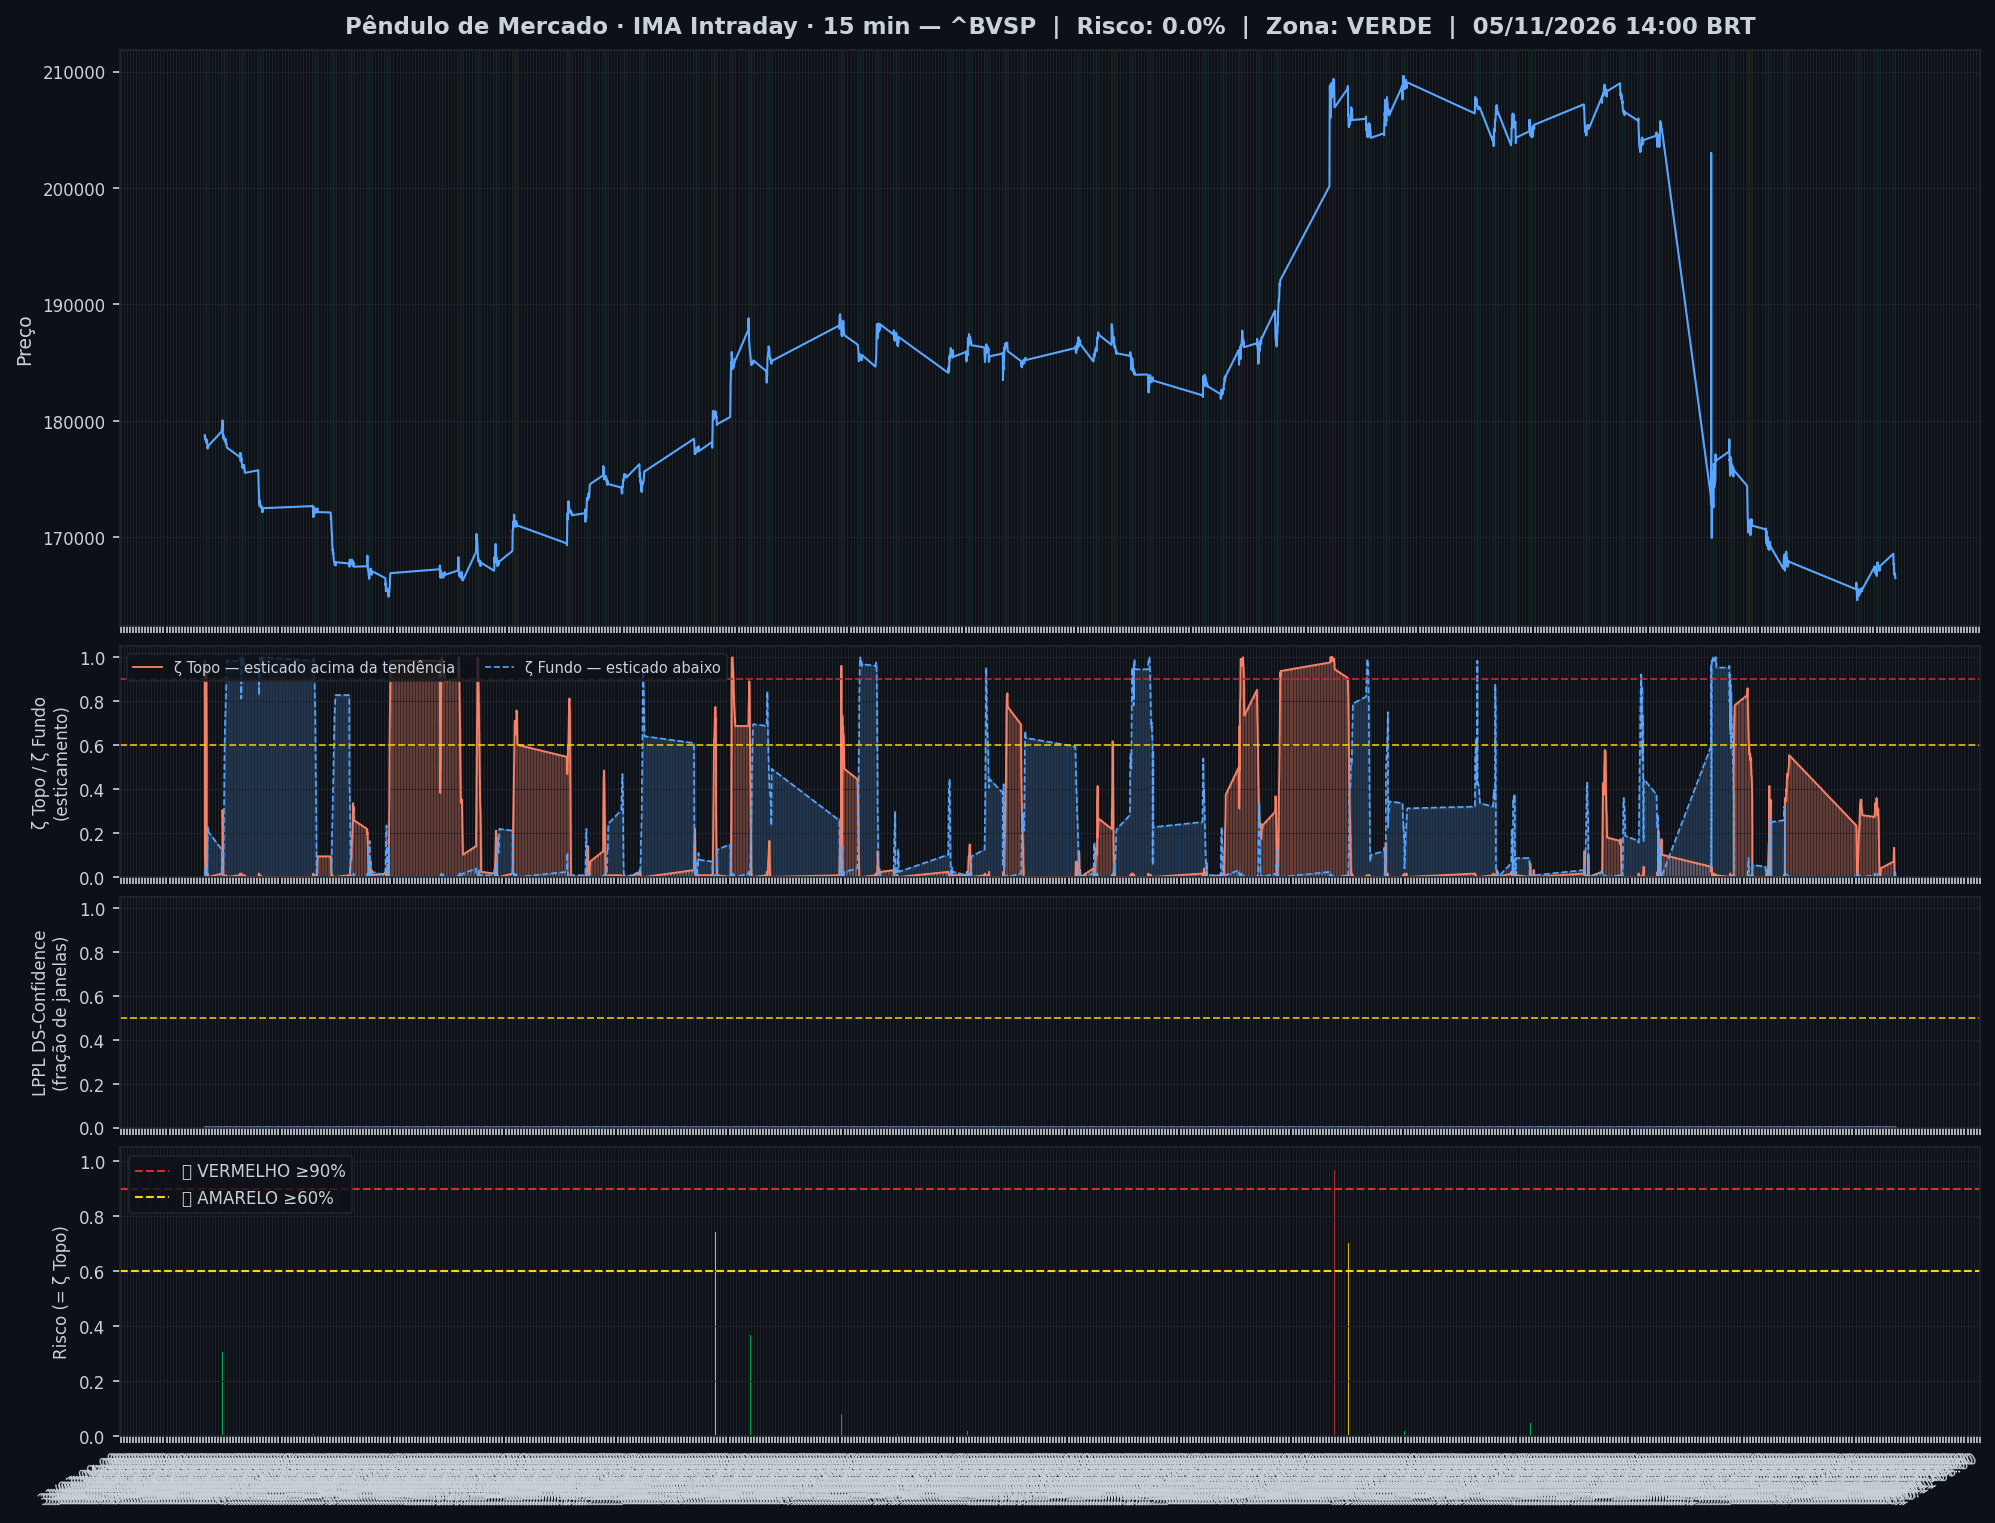
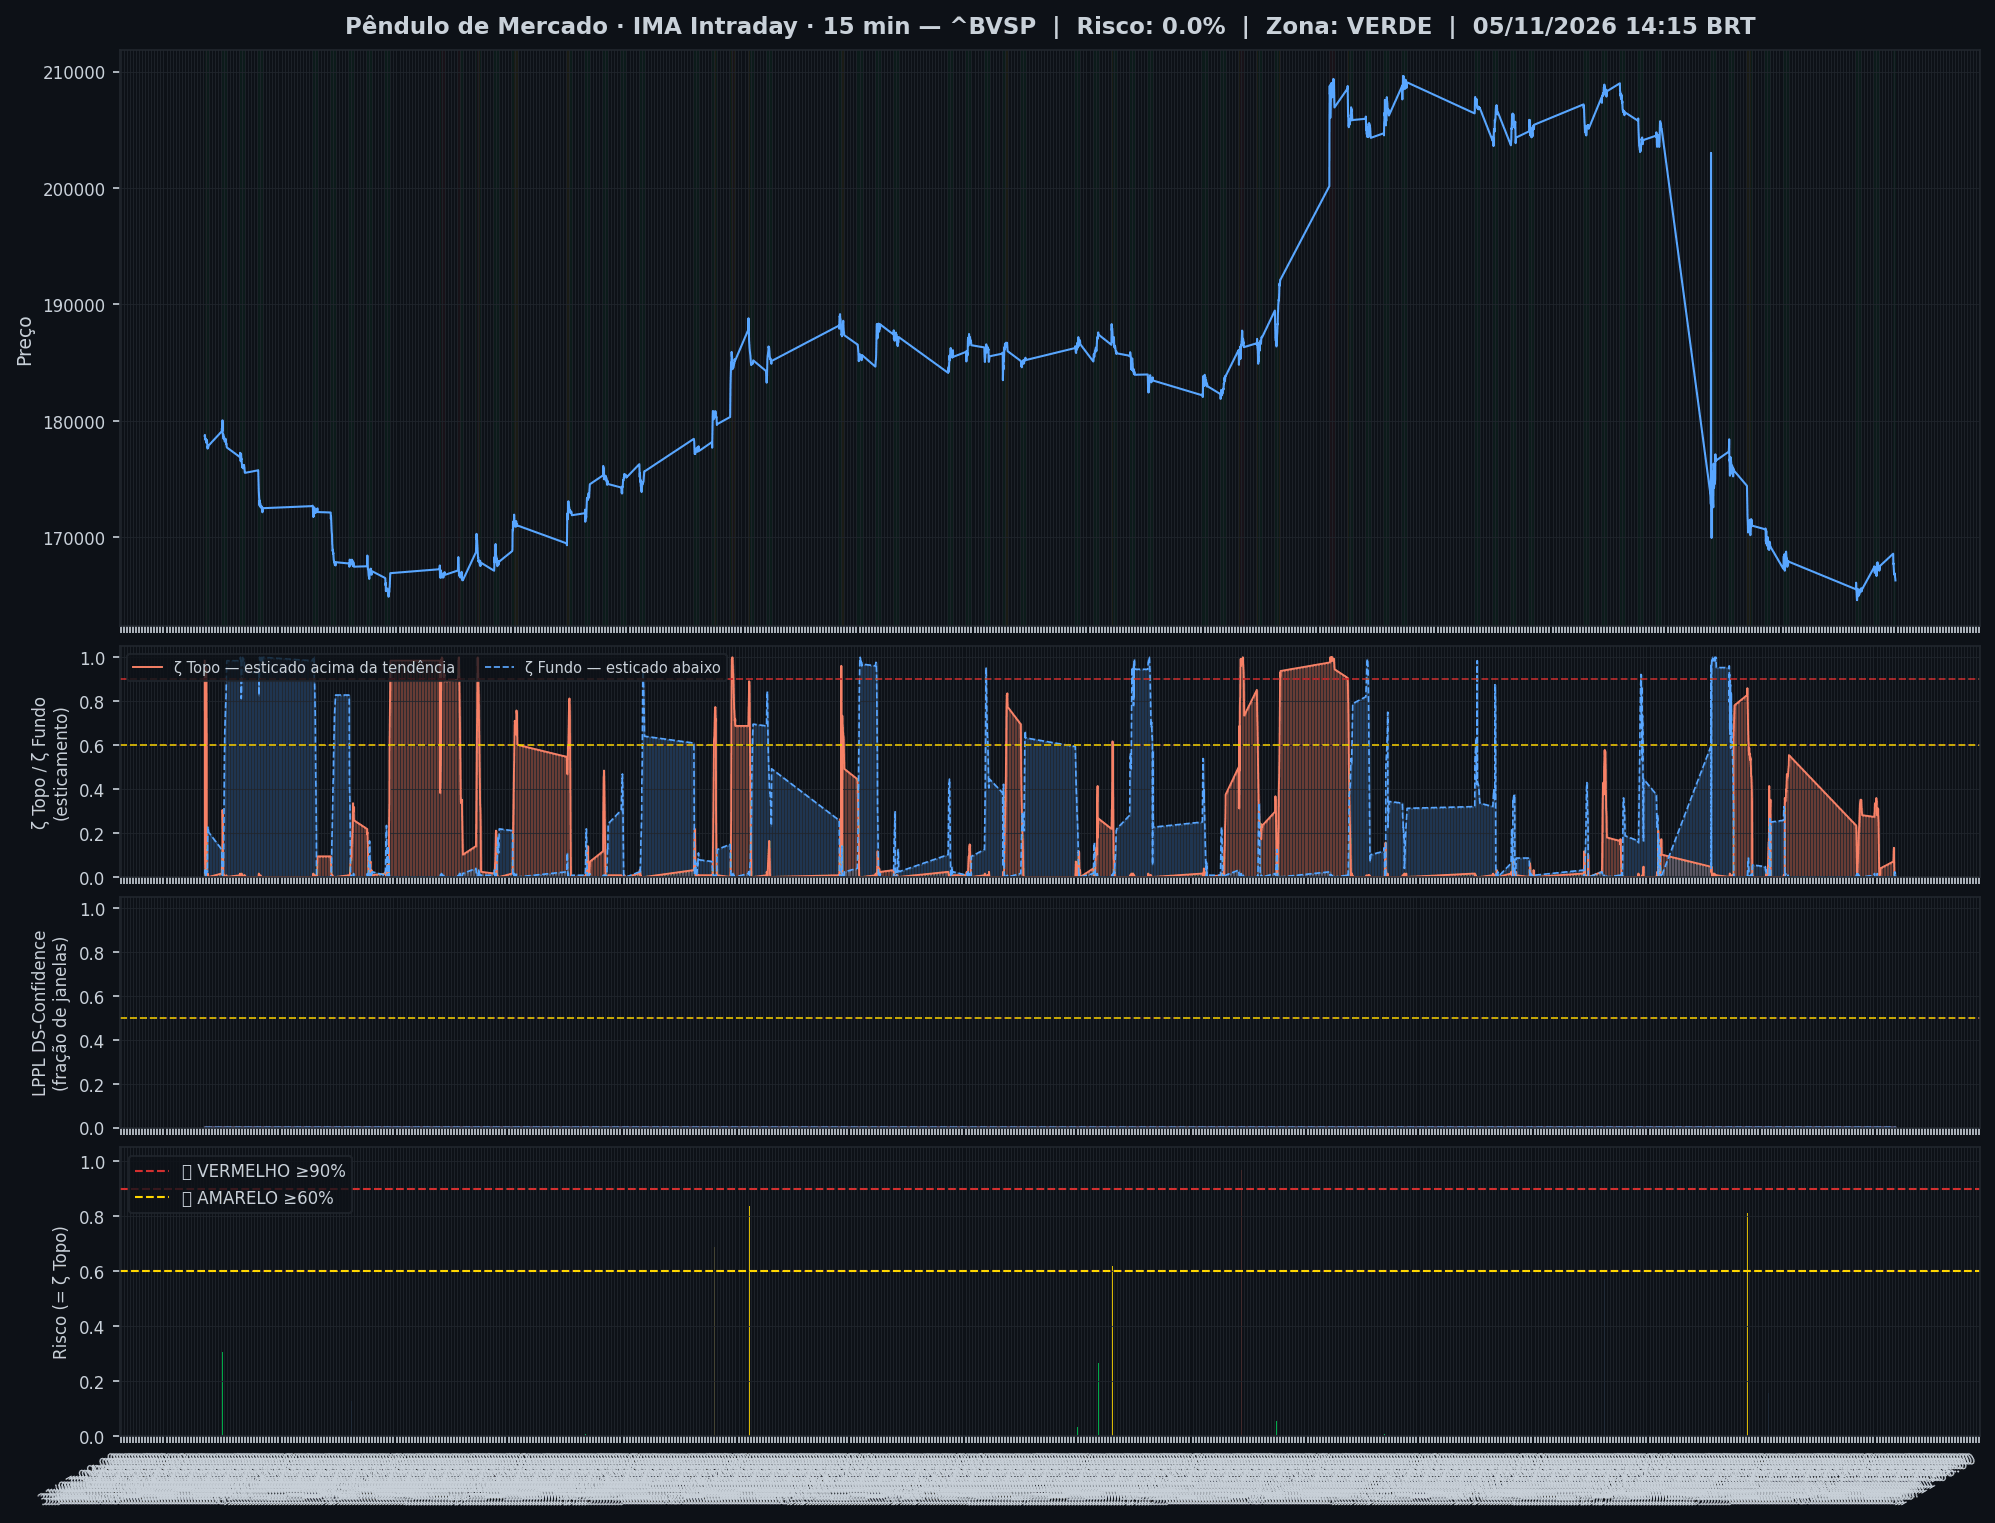
🤖 Auto: Sinal 05/11/2026 14:30

diff --git a/content/intraday/2026-11-05.md b/content/intraday/2026-11-05.md
@@ -1,10 +1,10 @@
 ---
-title: "🟢 Intraday 05/11/2026 14:00 BRT — VERDE"
+title: "🟢 Intraday 05/11/2026 14:15 BRT — VERDE"
 date: 2026-11-05
 tags: [intraday]
 ---
 
-> [!success] Onde o mercado está agora (05/11 14:00, candles de 15 min): **🟢 Calmo**
+> [!success] Onde o mercado está agora (05/11 14:15, candles de 15 min): **🟢 Calmo**
 > `Pânico ◀──────────●──────────▶ Euforia`
 >
 > O Ibovespa está dentro da sua faixa normal, sem excesso para cima nem para baixo.
@@ -20,7 +20,7 @@ tags: [intraday]
 > | 📍 **Sinais** | hoje: nenhum sinal | [abrir](sinais-topo-fundo/) |
 > | 🧪 **Placar ao vivo** | 1 operação(ões), 0 com lucro, soma -0,8% | [abrir](operacoes/) |
 
-> [!success] IMA Intraday · 15 min (05/11 14:00): 🟢 **VERDE** — Risco 0% · ＝ +0 p.p. vs leitura anterior
+> [!success] IMA Intraday · 15 min (05/11 14:15): 🟢 **VERDE** — Risco 0% · ＝ +0 p.p. vs leitura anterior
 > `░░░░░░░░░░░░░░░░░░░░`
 > Preço na faixa normal em torno da tendência.
 
@@ -32,13 +32,13 @@ tags: [intraday]
 >
 > *Leitura educacional baseada em 26 anos de dados, não recomendação. [Como usar](../metodologia/crise#3-como-usar-na-prática).*
 
-| Indicador — IMA Intraday · 15 min (05/11 14:00) | Valor |
+| Indicador — IMA Intraday · 15 min (05/11 14:15) | Valor |
 |---|---|
 | 🔴 ζ Topo — preço esticado acima da tendência | **0%** |
 | 🔵 ζ Fundo — preço esticado abaixo da tendência | 1% |
 | 🫧 LPPL bolha — alta super-exponencial (risco de crash) | 0% |
 | 🫧 LPPL antibolha — queda super-exponencial (risco de repique) | 0% |
-| 📊 Ibovespa | 166.508 pts |
+| 📊 Ibovespa | 166.314 pts |
 
 ![Gráfico do sinal](../graficos/sinal_intraday.png)
 
@@ -46,6 +46,7 @@ tags: [intraday]
 
 | Data | Zona | Evento | Risco | ζ Topo | ζ Fundo | LPPL |
 |---|---|---|---|---|---|---|
+| 2026-11-05 14:15 | 🟢 VERDE |  | **0%** | 0% | 1% | 0% |
 | 2026-11-05 14:00 | 🟢 VERDE |  | **0%** | 0% | 1% | 0% |
 | 2026-11-05 13:45 | 🟢 VERDE |  | **0%** | 0% | 0% | 0% |
 | 2026-11-05 13:30 | 🟢 VERDE |  | **0%** | 0% | 2% | 0% |
@@ -75,7 +76,6 @@ tags: [intraday]
 | 2026-11-04 14:30 | 🟢 VERDE |  | **31%** | 31% | 0% | 0% |
 | 2026-11-04 14:15 | 🟢 VERDE |  | **30%** | 30% | 1% | 0% |
 | 2026-11-04 14:00 | 🟢 VERDE |  | **29%** | 29% | 2% | 0% |
-| 2026-11-04 13:45 | 🟢 VERDE |  | **28%** | 28% | 1% | 0% |
 
 <small>Destaques: 🟡 ≥ 60% · 🔴 ≥ 90% (Risco e ζ Topo) · 🔵 ≥ 60% · 🔪 ≥ 90% (ζ Fundo) · 🫧 ≥ 30% · 🫧🔴 ≥ 50% (LPPL)</small>
 
@@ -84,41 +84,41 @@ tags: [intraday]
 **0% dos ativos em tensão** (0🔴 0🟡) · **3 com ζ Fundo alto** — quanto mais ativos disparam juntos, mais confiável o sinal.
 
 > [!warning] Em destaque no multi-ativo
-> 🔵 **WEG** ζ Fundo 70% · 🔵 **PRIO** ζ Fundo 69% · 🔵 **EMBRAER** ζ Fundo 66%
+> 🔵 **EMBRAER** ζ Fundo 80% · 🔵 **WEG** ζ Fundo 75% · 🔵 **PRIO** ζ Fundo 68%
 
 | Zona | Ativo | Setor | ζ Topo | ζ Fundo |
 |---|---|---|---|---|
-| 🟢 | **WEG** | Industrial | 0.0% | 🔵 **70.3%** |
-| 🟢 | **PRIO** | Petróleo | 0.0% | 🔵 **68.8%** |
-| 🟢 | **EMBRAER** | Outros | 1.6% | 🔵 **65.6%** |
-| 🟢 | **AXIA ENERGIA** | Energia | 48.4% | 0.8% |
-| 🟢 | **AMBEV S/A** | Consumo | 42.2% | 0.0% |
+| 🟢 | **EMBRAER** | Outros | 0.8% | 🔵 **80.5%** |
+| 🟢 | **WEG** | Industrial | 0.8% | 🔵 **75.0%** |
+| 🟢 | **PRIO** | Petróleo | 0.0% | 🔵 **68.0%** |
+| 🟢 | **AMBEV S/A** | Consumo | 44.5% | 0.0% |
+| 🟢 | **AXIA ENERGIA** | Energia | 43.0% | 0.8% |
 | 🟢 | **GERDAU** | Siderurgia | 0.8% | 31.2% |
-| 🟢 | **VIBRA** | Energia | 30.5% | 0.0% |
-| 🟢 | **SUZANO S.A.** | Papel/Celulose | 0.0% | 22.7% |
-| 🟢 | **COPEL** | Energia | 17.2% | 0.0% |
-| 🟢 | **ENEVA** | Energia | 13.3% | 0.0% |
-| 🟢 | **VALE** | Mineração | 11.7% | 0.0% |
-| 🟢 | **REDE D OR** | Saúde | 10.2% | 0.0% |
-| 🟢 | **ITAUUNIBANCO** | Financeiro | 7.8% | 0.0% |
-| 🟢 | **BRASIL** | Financeiro | 0.0% | 7.0% |
-| 🟢 | **ITAUSA** | Financeiro | 6.2% | 0.0% |
-| 🟢 | **PETROBRAS** | Petróleo | 0.8% | 4.7% |
-| 🟢 | **LOCALIZA** | Aluguel | 0.0% | 4.7% |
-| 🟢 | **BTGP BANCO** | Financeiro | 3.9% | 0.0% |
-| 🟢 | **BRADESCO** | Financeiro | 3.1% | 0.0% |
-| 🟢 | **B3** | Financeiro | 0.0% | 3.1% |
-| 🟢 | **PETROBRAS** | Petróleo | 1.6% | 2.3% |
-| 🟢 | **ULTRAPAR** | Outros | 1.6% | 0.0% |
+| 🟢 | **VIBRA** | Energia | 28.1% | 0.0% |
+| 🟢 | **SUZANO S.A.** | Papel/Celulose | 0.0% | 23.4% |
+| 🟢 | **PETROBRAS** | Petróleo | 0.0% | 18.8% |
+| 🟢 | **VALE** | Mineração | 13.3% | 0.0% |
+| 🟢 | **COPEL** | Energia | 11.7% | 0.0% |
+| 🟢 | **ITAUUNIBANCO** | Financeiro | 10.2% | 0.0% |
+| 🟢 | **REDE D OR** | Saúde | 8.6% | 0.0% |
+| 🟢 | **ITAUSA** | Financeiro | 7.8% | 0.0% |
+| 🟢 | **BRASIL** | Financeiro | 0.8% | 6.2% |
+| 🟢 | **BTGP BANCO** | Financeiro | 5.5% | 0.0% |
+| 🟢 | **ENEVA** | Energia | 5.5% | 0.0% |
+| 🟢 | **PETROBRAS** | Petróleo | 0.0% | 3.1% |
+| 🟢 | **BRADESCO** | Financeiro | 2.3% | 0.0% |
+| 🟢 | **B3** | Financeiro | 1.6% | 0.8% |
+| 🟢 | **LOCALIZA** | Aluguel | 0.0% | 1.6% |
 | 🟢 | **SABESP** | Saneamento | 0.0% | 0.0% |
 | 🟢 | **EQUATORIAL** | Energia | 0.0% | 0.0% |
+| 🟢 | **ULTRAPAR** | Outros | 0.0% | 0.0% |
 | 🟢 | **USD/BRL** | Câmbio | 0.0% | 0.0% |
 
 <small>Destaques: 🟡 ≥ 60% · 🔴 ≥ 90% (Risco e ζ Topo) · 🔵 ≥ 60% · 🔪 ≥ 90% (ζ Fundo) · 🫧 ≥ 30% · 🫧🔴 ≥ 50% (LPPL)</small>
 
 ![Monitor multi-ativo](../graficos/multi_intraday.png)
 
-*Página atualizada em 05/11/2026 14:15 BRT (leitura da barra de 2026-11-05 14:00 BRT).*
+*Página atualizada em 05/11/2026 14:30 BRT (leitura da barra de 2026-11-05 14:15 BRT).*
 
 > [!warning] O que este indicador não faz
 > Medido em 5 anos de Ibovespa, o ζ **não antecipa** topos nem fundos: a capacidade de separar o que sobe do que cai ficou em 0,49–0,52, e 0,50 é moeda jogada ao ar. Ele descreve o estado de agora; não é aviso do que vem. As zonas verde/amarelo/vermelho continuam na página como descrição desse estado — **não as use como sinal de entrada ou saída**.

diff --git a/content/index.md b/content/index.md
@@ -6,9 +6,9 @@ tags: [home]
 
 **As ondas do mercado, explicadas.** Leitura do Ibovespa com estatística de 26 anos, baseada no trabalho de pesquisadores e traders reconhecidos e adaptada por Jarbas Daniel da Costa.
 
-*Última atualização: 05/11/2026 14:15 BRT · Intraday 15min*
+*Última atualização: 05/11/2026 14:30 BRT · Intraday 15min*
 
-> [!success] Onde o mercado está agora (05/11 14:00, candles de 15 min): **🟢 Calmo**
+> [!success] Onde o mercado está agora (05/11 14:15, candles de 15 min): **🟢 Calmo**
 > `Pânico ◀──────────●──────────▶ Euforia`
 >
 > O Ibovespa está dentro da sua faixa normal, sem excesso para cima nem para baixo.
@@ -54,18 +54,18 @@ tags: [home]
 > *Leitura educacional baseada em 26 anos de dados, não recomendação. [Como usar](metodologia/crise#3-como-usar-na-prática).*
 
 > [!info]- 🌊 Detalhes do Sinal de Crise (indicadores e últimos 7 pregões)
-> > [!success] IMA Intraday · 15 min (05/11 14:00): 🟢 **VERDE** — Risco 0% · ＝ +0 p.p. vs leitura anterior
+> > [!success] IMA Intraday · 15 min (05/11 14:15): 🟢 **VERDE** — Risco 0% · ＝ +0 p.p. vs leitura anterior
 > > `░░░░░░░░░░░░░░░░░░░░`
 > > Preço na faixa normal em torno da tendência.
 >
 >
-> | Indicador — IMA Intraday · 15 min (05/11 14:00) | Valor |
+> | Indicador — IMA Intraday · 15 min (05/11 14:15) | Valor |
 > |---|---|
 > | 🔴 ζ Topo — preço esticado acima da tendência | **0%** |
 > | 🔵 ζ Fundo — preço esticado abaixo da tendência | 1% |
 > | 🫧 LPPL bolha — alta super-exponencial (risco de crash) | 0% |
 > | 🫧 LPPL antibolha — queda super-exponencial (risco de repique) | 0% |
-> | 📊 Ibovespa | 166.508 pts |
+> | 📊 Ibovespa | 166.314 pts |
 >
 > **Multi-ativo:** 0% em tensão (0🔴 0🟡 de 25 ativos)
 >

diff --git a/content/operacoes/entradas.md b/content/operacoes/entradas.md
@@ -31,7 +31,7 @@ description: "Compra depois de um sinal de fundo: Nadaraya no diário, semáforo
 > | Diário · Semáforo N3 após ζ Fundo | 07/07/26 a 172.021 | 10/08/26 a 172.021 | **+0,0%** | stop no preço de entrada |
 > | H4 · Semáforo N2 | 12/06/26 14h a 171.134 | 15/06/26 14h a 171.134 | **+0,0%** | stop no preço de entrada |
 >
-> <small>Atualizado 04/11 19:00 · checado no pregão às 14:15. Nota: ✅ passou no teste fora da amostra (walk-forward 2008–2026) · 🧪 em teste (H4, com aviso no Telegram) ou em observação (ζ, sem aviso) · 🧪 na tabela = operação do teste ao vivo.</small>
+> <small>Atualizado 04/11 19:00 · checado no pregão às 14:30. Nota: ✅ passou no teste fora da amostra (walk-forward 2008–2026) · 🧪 em teste (H4, com aviso no Telegram) ou em observação (ζ, sem aviso) · 🧪 na tabela = operação do teste ao vivo.</small>
 >
 > *Regras: depois de um sinal de fundo, o Diário entra quando o Nadaraya vira para cima; o Semanal e o H4 entram quando um fundo do semáforo fica fixo. Stop e saída de cada regra na [metodologia](metodologia/regras-de-operacao#entradas-do-método). Nenhuma regra de venda passou no teste. Os números do histórico têm viés de escolha (overfitting); o placar ao vivo é o que vale. Leitura educacional do método, não recomendação.*
 

diff --git a/content/historico.md b/content/historico.md
@@ -5,7 +5,7 @@ tags: [historico]
 
 # 📜 Histórico de leituras (v5)
 
-**2.159 leituras** desde 2026-07-03. Na página ficam os últimos 3 dias leitura por leitura e o resumo de cada dia anterior; o registro inteiro está no arquivo para baixar.
+**2.160 leituras** desde 2026-07-03. Na página ficam os últimos 3 dias leitura por leitura e o resumo de cada dia anterior; o registro inteiro está no arquivo para baixar.
 
 [**Baixar o histórico completo**](historico-completo.csv) (95 KB · abre no Excel e no LibreOffice)
 
@@ -16,6 +16,7 @@ tags: [historico]
 
 | Data | Modo | Zona | Risco | IMA | LPPL |
 |---|---|---|---|---|---|
+| 2026-11-05 14:15 | intraday | 🟢 VERDE | 0% | 0% | 0% |
 | 2026-11-05 14:00 | intraday | 🟢 VERDE | 0% | 0% | 0% |
 | 2026-11-05 13:45 | intraday | 🟢 VERDE | 0% | 0% | 0% |
 | 2026-11-05 13:30 | intraday | 🟢 VERDE | 0% | 0% | 0% |

diff --git a/content/operacoes/ranking.md b/content/operacoes/ranking.md
@@ -5,7 +5,7 @@ tags: [operacoes]
 description: "As regras de compra do site ordenadas pelo resultado, com treino, teste e placar ao vivo"
 ---
 
-*Atualizado 05/11/2026 14:15 · histórico simulado com as regras congeladas em 23/10/2026 + placar ao vivo.*
+*Atualizado 05/11/2026 14:30 · histórico simulado com as regras congeladas em 23/10/2026 + placar ao vivo.*
 
 As regras de compra do site, **da que mais rendeu para a que menos rendeu**. O resultado é por operação, no índice à vista, sem custos e sem juros compostos (a soma é só a soma das operações). **Treino** = entradas de 2001 a 2013 e **teste** = 2014 em diante: uma regra só é confiável se ganhou nos dois. O único resultado sem nenhum ajuste ao histórico é o **placar ao vivo**.
 

diff --git a/content/linha-do-tempo/index.md b/content/linha-do-tempo/index.md
@@ -5,7 +5,7 @@ description: "Todo sinal, ordem, stop e aviso do Pêndulo de Mercado, do mais re
 tags: [eventos]
 ---
 
-*Atualizada 05/11/2026 14:15 BRT · a cada 15 min no pregão e às 19h.*
+*Atualizada 05/11/2026 14:30 BRT · a cada 15 min no pregão e às 19h.*
 
 Tudo o que o sistema fez ou detectou, **do mais recente para o mais antigo**: sinais de topo e fundo, ordens de compra e de venda armadas, compras, vendas, stops, avisos de 🚨 preço perto do nível e mudanças da Crise. Os **últimos 7 dias** ficam abertos; o resto, por **ano → mês → dia**.
 
